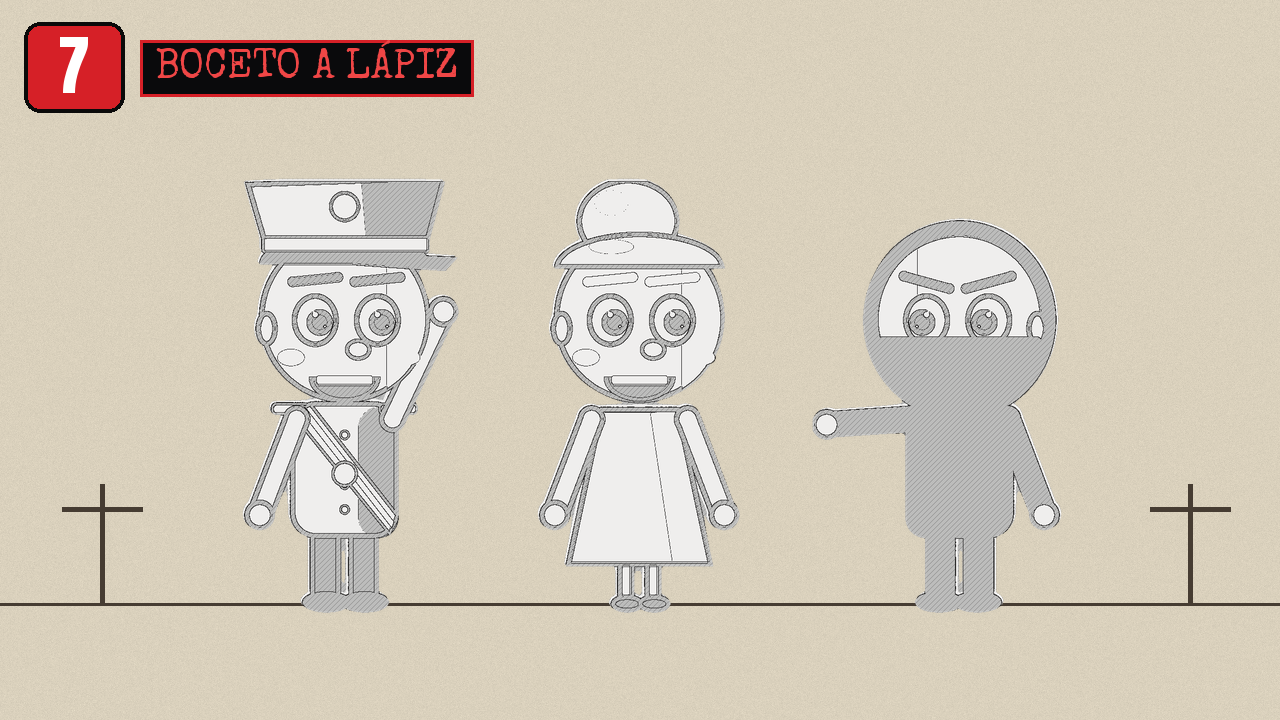
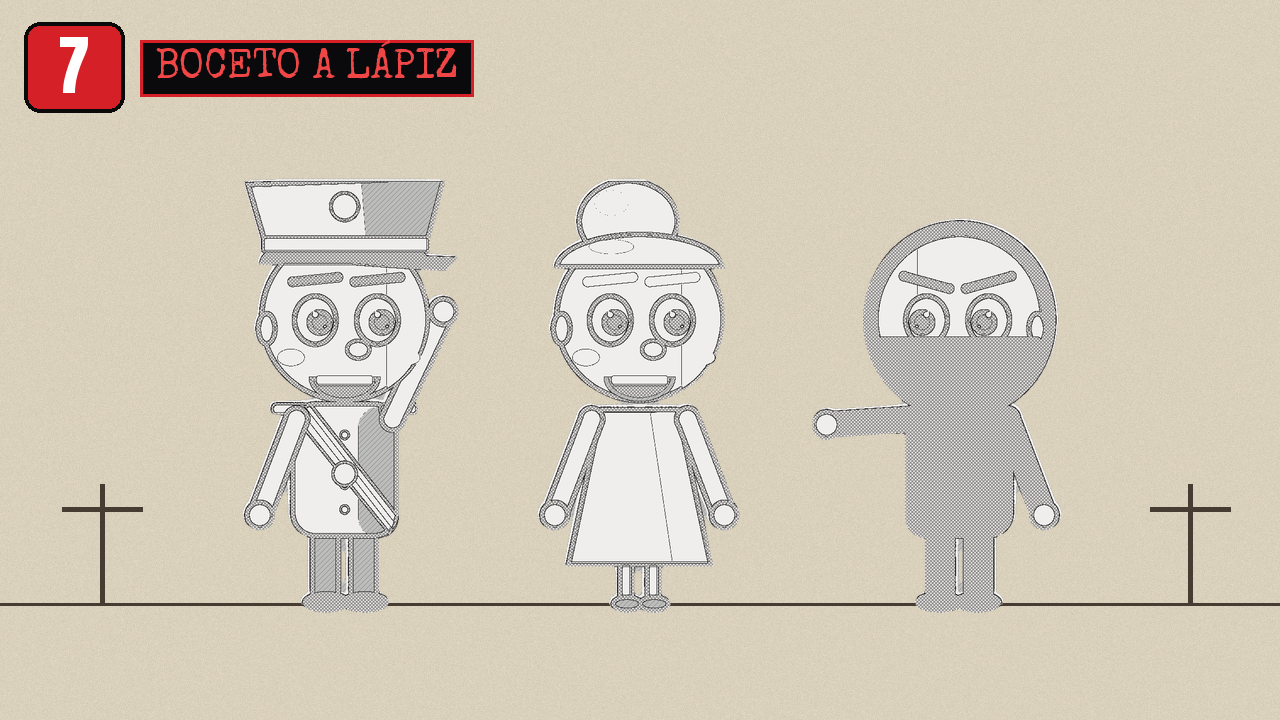
Perón: 20 estilos de personajes para elegir
Claude-Session: https://claude.ai/code/session_01JMAifVZTGp6UQuuYr7fYuW

diff --git a/peron/produccion/estilos.py b/peron/produccion/estilos.py
@@ -156,7 +156,10 @@ def e7():  # boceto a lápiz
         rayado = np.ones(g.size[::-1]) * 255
         yy, xx = np.mgrid[0:g.size[1], 0:g.size[0]]
         rayado[(xx + yy) % 9 == 0] = 140
+        oscuro = np.asarray(g) < 70
         som = np.minimum(np.asarray(sombra), np.where(np.asarray(sombra) < 255, rayado, 255))
+        cruz = np.where(((xx - yy) % 6 == 0) | ((xx + yy) % 6 == 0), 70, 235)
+        som = np.where(oscuro, cruz, som)
         res = np.minimum(np.asarray(linea), som).astype(np.uint8)
         im = Image.fromarray(res).convert("RGB")
         im = Image.blend(im, Image.new("RGB", im.size, (60, 50, 40)), 0.08).convert("RGBA")
@@ -231,8 +234,8 @@ def e10():  # plastilina / 3D suave
         lum = np.asarray(ImageOps.grayscale(sp.convert("RGB")).filter(ImageFilter.GaussianBlur(6))).astype(np.float32) / 255
         h = h * 0.7 + lum * 0.3
         gy, gx = np.gradient(h)
-        shade = np.clip(1 + (-gx * -0.7 + -gy * -0.7) * 9, 0.55, 1.5)
-        spec = np.clip((-gx * 0.7 - gy * 0.7) * 30 - 0.5, 0, 1) * 90
+        shade = np.clip(1 + (gx * 0.7 + gy * 0.7) * 22, 0.45, 1.6)
+        spec = np.clip((-gx * 0.7 - gy * 0.7) * 60 - 0.4, 0, 1) * 140
         rgb = np.asarray(sp.convert("RGB").filter(ImageFilter.GaussianBlur(1.2))).astype(np.float32)
         rgb = rgb * shade[..., None] + spec[..., None]
         rgb += np.random.default_rng(3).normal(0, 5, rgb.shape)
@@ -245,6 +248,183 @@ def e10():  # plastilina / 3D suave
 ESTILOS = [(e1, "CARICATURA CABEZONA"), (e2, "SILUETAS NOIR"), (e3, "PAPEL RECORTADO"), (e4, "CÓMIC NOIR"),
            (e5, "PIXEL ART"), (e6, "NEÓN"), (e7, "BOCETO A LÁPIZ"), (e8, "CHIBI"), (e9, "FRIJOLITOS"),
            (e10, "PLASTILINA 3D")]
+
+
+def _filtro_pintura(sp, tam=7, sat=1.0, textura=40):
+    from PIL import ImageEnhance
+    a = sp.getchannel("A")
+    rgb = sp.convert("RGB").filter(ImageFilter.ModeFilter(tam)).filter(ImageFilter.SMOOTH_MORE)
+    rgb = ImageEnhance.Color(rgb).enhance(sat)
+    tex = Image.effect_noise(sp.size, textura).convert("RGB").filter(ImageFilter.EMBOSS)
+    rgb = Image.blend(rgb, ImageChops.overlay(rgb, tex), 0.35)
+    im = rgb.convert("RGBA"); im.putalpha(a)
+    return im
+
+
+def e11():  # monigote de palitos
+    img, piso = fondo(); img = img.copy(); d = ImageDraw.Draw(img)
+    for (t, _, b, m), x in zip(ELENCO, XS):
+        cx = W * x; base = piso + 6; ink = (245, 245, 245) if t != "ladron" else (240, 70, 70)
+        hy = base - 330
+        d.line([(cx, hy + 70), (cx, base - 140)], fill=ink, width=9)
+        d.line([(cx, base - 140), (cx - 45, base)], fill=ink, width=9); d.line([(cx, base - 140), (cx + 45, base)], fill=ink, width=9)
+        brazo = {"uno": (cx + 80, hy - 20), "frente": (cx - 110 if m < 0 else cx + 110, hy + 120)}.get(b, (cx + 70, hy + 190))
+        d.line([(cx, hy + 120), (cx - 70, hy + 190)], fill=ink, width=9); d.line([(cx, hy + 120), brazo], fill=ink, width=9)
+        d.ellipse([cx - 70, hy - 70, cx + 70, hy + 70], fill=(250, 250, 250), outline=(20, 20, 20), width=8)
+        for ex in (cx - 24, cx + 24):
+            d.ellipse([ex - 9, hy - 14, ex + 9, hy + 6], fill=(20, 20, 20))
+        if t == "peron":
+            d.polygon([(cx - 75, hy - 40), (cx - 85, hy - 105), (cx + 85, hy - 112), (cx + 75, hy - 40)], fill=(110, 120, 66), outline=(20, 20, 20))
+            d.polygon([(cx - 10, hy - 40), (cx + 110, hy - 34), (cx + 95, hy - 20), (cx - 5, hy - 26)], fill=(20, 20, 20))
+            d.arc([cx - 35, hy + 5, cx + 35, hy + 45], 10, 170, fill=(20, 20, 20), width=6)
+            d.line([(cx - 25, hy + 100), (cx + 25, hy + 180)], fill=(108, 172, 228), width=14)
+        elif t == "evita":
+            d.ellipse([cx - 45, hy - 125, cx + 45, hy - 45], fill=(250, 205, 70), outline=(20, 20, 20), width=6)
+            d.polygon([(cx - 40, hy + 160), (cx + 40, hy + 160), (cx + 70, base - 90), (cx - 70, base - 90)], fill=(245, 245, 245), outline=(20, 20, 20))
+            d.arc([cx - 30, hy + 10, cx + 30, hy + 40], 10, 170, fill=(215, 30, 50), width=6)
+        else:
+            d.chord([cx - 70, hy - 10, cx + 70, hy + 70], 0, 180, fill=(20, 20, 24))
+            d.line([(cx - 40, hy - 34), (cx - 10, hy - 22)], fill=(20, 20, 20), width=7); d.line([(cx + 40, hy - 34), (cx + 10, hy - 22)], fill=(20, 20, 20), width=7)
+    return img
+
+
+def e12():  # óleo
+    img, piso = fondo()
+    img = escena_con(sprites(lambda sp: _filtro_pintura(sp, 9, 0.85, 50)), bg=(img, piso))
+    return Image.blend(img.filter(ImageFilter.ModeFilter(5)), Image.new("RGB", img.size, (60, 40, 20)), 0.12)
+
+
+def e13():  # acuarela
+    def acua(sp):
+        a = sp.getchannel("A")
+        rgb = sp.convert("RGB").filter(ImageFilter.GaussianBlur(3))
+        rgb = Image.blend(rgb, Image.new("RGB", sp.size, (255, 255, 255)), 0.25)
+        bordes = ImageOps.invert(ImageOps.grayscale(sp.convert("RGB")).filter(ImageFilter.FIND_EDGES)).point(lambda v: 255 if v > 200 else 120)
+        rgb = ImageChops.multiply(rgb, Image.merge("RGB", (bordes,) * 3))
+        im = rgb.convert("RGBA"); im.putalpha(a.filter(ImageFilter.GaussianBlur(2)))
+        return im
+    papel = Image.new("RGB", (W, H), (240, 232, 215))
+    capa = Image.new("RGB", (W, H), (240, 232, 215)); d = ImageDraw.Draw(capa)
+    d.ellipse([W * 0.7, -100, W * 1.1, H * 0.5], fill=(170, 180, 215)); d.rectangle([0, H * 0.84, W, H], fill=(150, 140, 125))
+    papel = Image.blend(papel, capa.filter(ImageFilter.GaussianBlur(40)), 0.8)
+    papel = ImageChops.multiply(papel, Image.effect_noise((W, H), 30).convert("RGB").point(lambda v: 215 + v // 6))
+    return escena_con(sprites(acua, luz=(240, 232, 215)), bg=(papel, int(H * 0.84)))
+
+
+def e14():  # anime suave pastel
+    def anime(sp):
+        from PIL import ImageEnhance
+        a = sp.getchannel("A")
+        rgb = ImageEnhance.Brightness(sp.convert("RGB")).enhance(1.12)
+        rgb = Image.blend(rgb, Image.new("RGB", sp.size, (255, 220, 235)), 0.18)
+        im = rgb.convert("RGBA"); im.putalpha(a)
+        return im
+    img = Image.new("RGB", (W, H)); d = ImageDraw.Draw(img)
+    for i in range(H):
+        t = i / H
+        d.line([(0, i), (W, i)], fill=(int(60 + 140 * t), int(40 + 60 * t), int(120 + 60 * t)))
+    rnd = random.Random(4)
+    for _ in range(60):
+        x, y = rnd.randrange(W), rnd.randrange(int(H * 0.7)); r = rnd.choice((2, 3, 5))
+        d.ellipse([x - r, y - r, x + r, y + r], fill=(255, 240, 250))
+    d.rectangle([0, H * 0.84, W, H], fill=(70, 50, 90))
+    return escena_con(sprites(anime, luz=(255, 190, 230)), bg=(img, int(H * 0.84)))
+
+
+def e15():  # 3D tipo película animada (sombreado esférico fuerte)
+    def tres_d(sp):
+        a = np.asarray(sp.getchannel("A")).astype(np.float32) / 255
+        rgb = np.asarray(sp.convert("RGB")).astype(np.float32)
+        h = np.asarray(sp.getchannel("A").filter(ImageFilter.GaussianBlur(28))).astype(np.float32) / 255
+        gy, gx = np.gradient(h)
+        luz = np.clip(0.75 + (gx * 0.6 + gy * 0.8) * -35 + h * 0.35, 0.35, 1.45)
+        spec = np.clip((-gx * 0.6 - gy * 0.8) * 90 - 0.6, 0, 1) * 120
+        rgb = rgb * luz[..., None] + spec[..., None]
+        im = Image.fromarray(np.clip(rgb, 0, 255).astype(np.uint8)).filter(ImageFilter.SMOOTH).convert("RGBA")
+        im.putalpha(Image.fromarray((a * 255).astype(np.uint8)))
+        return im
+    return escena_con(sprites(tres_d))
+
+
+def e16():  # cómic oscuro con sombras duras
+    def duro(sp):
+        a = sp.getchannel("A")
+        rgb = sp.convert("RGB").quantize(8).convert("RGB")
+        w, h = sp.size
+        m = Image.new("L", sp.size, 0); ImageDraw.Draw(m).polygon([(w * 0.55, 0), (w, 0), (w, h), (w * 0.62, h)], fill=150)
+        rgb.paste((10, 10, 14), (0, 0), ImageChops.multiply(m, a))
+        bordes = ImageOps.grayscale(sp.convert("RGB")).filter(ImageFilter.FIND_EDGES).point(lambda v: 255 if v > 30 else 0).filter(ImageFilter.MaxFilter(3))
+        rgb.paste((0, 0, 0), (0, 0), bordes)
+        im = rgb.convert("RGBA"); im.putalpha(a)
+        return im
+    img, piso = fondo()
+    img = Image.blend(img, Image.new("RGB", (W, H), (90, 0, 10)), 0.3)
+    return escena_con(sprites(duro, luz=(255, 60, 60)), bg=(img, piso))
+
+
+def e17():  # póster de propaganda años 40
+    def poster(sp):
+        a = sp.getchannel("A")
+        g = ImageOps.grayscale(sp.convert("RGB"))
+        pal = [(30, 25, 25), (180, 35, 35), (235, 220, 190)]
+        arr = np.asarray(g)
+        out = np.zeros(arr.shape + (3,), np.uint8)
+        out[arr < 70] = pal[0]; out[(arr >= 70) & (arr < 160)] = pal[1]; out[arr >= 160] = pal[2]
+        im = Image.fromarray(out).convert("RGBA"); im.putalpha(a)
+        return im
+    img = Image.new("RGB", (W, H), (235, 220, 190)); d = ImageDraw.Draw(img)
+    for k in range(0, 360, 12):
+        import math
+        d.polygon([(W / 2, H * 0.55), (W / 2 + math.cos(math.radians(k)) * 1500, H * 0.55 + math.sin(math.radians(k)) * 1500),
+                   (W / 2 + math.cos(math.radians(k + 6)) * 1500, H * 0.55 + math.sin(math.radians(k + 6)) * 1500)], fill=(215, 190, 150))
+    d.rectangle([0, H * 0.84, W, H], fill=(30, 25, 25))
+    return escena_con(sprites(poster, luz=(235, 220, 190)), bg=(img, int(H * 0.84)))
+
+
+def e18():  # grabado / linóleo
+    def grabado(sp):
+        a = sp.getchannel("A")
+        g = np.asarray(ImageOps.grayscale(sp.convert("RGB"))).astype(np.int16)
+        yy, xx = np.mgrid[0:g.shape[0], 0:g.shape[1]]
+        lineas = (np.sin(yy * 0.9 + np.sin(xx * 0.05) * 3) + 1) * 127
+        tinta = g < lineas * 0.8
+        out = np.where(tinta, 25, 238).astype(np.uint8)
+        im = Image.fromarray(out).convert("RGB")
+        im = ImageChops.multiply(im, Image.new("RGB", im.size, (245, 235, 215))).convert("RGBA"); im.putalpha(a)
+        return im
+    img = Image.new("RGB", (W, H), (240, 230, 210)); d = ImageDraw.Draw(img)
+    for y in range(0, H, 7):
+        d.line([(0, y), (W, y)], fill=(215, 205, 185), width=2)
+    d.rectangle([0, H * 0.84, W, H], fill=(25, 25, 25))
+    return escena_con(sprites(grabado, luz=(240, 230, 210)), bg=(img, int(H * 0.84)))
+
+
+def e19():  # tiza en pizarra
+    def tiza(sp):
+        a = sp.getchannel("A")
+        g = ImageOps.grayscale(sp.convert("RGB"))
+        b = ImageChops.lighter(g.filter(ImageFilter.FIND_EDGES), a.filter(ImageFilter.FIND_EDGES)).point(lambda v: 255 if v > 35 else 0)
+        b = b.filter(ImageFilter.MaxFilter(3))
+        ruido = Image.effect_noise(sp.size, 120).point(lambda v: 255 if v > 110 else 60)
+        b = ImageChops.multiply(b, ruido)
+        relleno = ImageChops.multiply(a.point(lambda v: 40 if v > 128 else 0), ruido)
+        col = Image.new("RGBA", sp.size, (0, 0, 0, 0))
+        col.paste(Image.new("RGBA", sp.size, (250, 250, 240, 255)), (0, 0), ImageChops.lighter(b, relleno))
+        return col
+    img = Image.new("RGB", (W, H), (32, 58, 46))
+    img = ImageChops.add(img, Image.effect_noise((W, H), 18).convert("RGB").point(lambda v: v // 10))
+    d = ImageDraw.Draw(img); d.line([(0, H * 0.84), (W, H * 0.84)], fill=(220, 220, 210), width=4)
+    d.rectangle([0, 0, W, 16], fill=(110, 75, 40)); d.rectangle([0, H - 16, W, H], fill=(110, 75, 40))
+    return escena_con(sprites(tiza, luz=(32, 58, 46)), bg=(img, int(H * 0.84)))
+
+
+def e20():  # caricatura editorial pintada (cabezona + pintura)
+    return escena_con(sprites(lambda sp: _filtro_pintura(sp, 5, 1.15, 30)), alto=450)
+
+
+ESTILOS += [(e11, "MONIGOTE DE PALITOS"), (e12, "ÓLEO"), (e13, "ACUARELA"), (e14, "ANIME PASTEL"),
+            (e15, "3D TIPO PELÍCULA"), (e16, "CÓMIC OSCURO"), (e17, "PÓSTER AÑOS 40"), (e18, "GRABADO"),
+            (e19, "TIZA EN PIZARRA"), (e20, "CARICATURA PINTADA")]
 
 if __name__ == "__main__":
     out = sys.argv[1]
